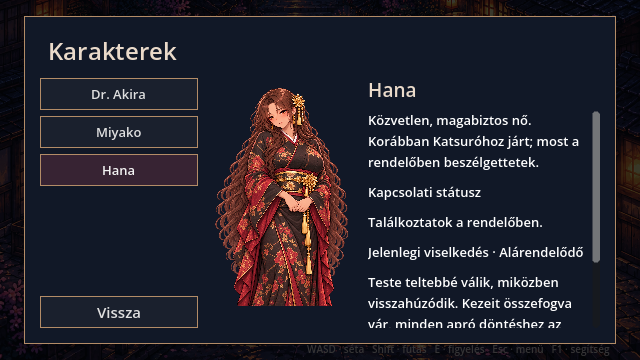
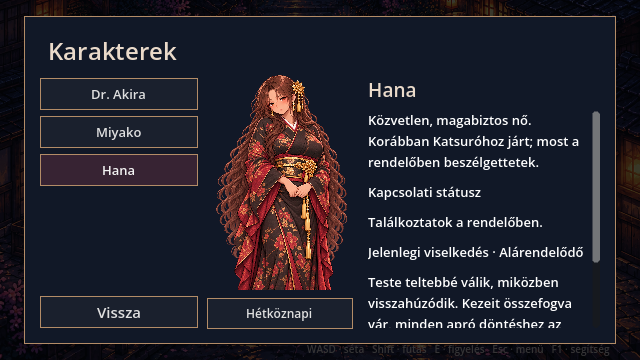
Add Hana casual outfit with journal wardrobe preview

Changed region(s): [[0.3438, 0.2139, 0.5625, 0.9167]]

diff --git a/docs/EVERYDAY_WARDROBE_REVIEW.md b/docs/EVERYDAY_WARDROBE_REVIEW.md
@@ -1,0 +1,17 @@
+# Everyday wardrobe — REVIEW
+
+2026-10-10 owner request: Hana may wear a top and denim shorts, contrasting with her traditional outfit; all women may receive individual everyday clothing over time.
+
+Hana asset: assets/opening/vn_portraits/hana_casual_deferential_v1_REVIEW.png. Reference: hana_transformed_deferential_v1_REVIEW.png. Built-in ImageGen; transparent_background=true. Output exec-a579e8ba-496e-4ba9-af2c-02ddb8459837.png. Fuller transformed build and hesitant pose retained, burgundy top and knee-length denim shorts. Kimono retained. This is a REVIEW wardrobe alternate, not a replacement baseline.
+
+Available through the character journal's Hétköznapi / Kimonó preview button when Hana's transformed state is known. Preview changes no story flags or VN costume. Story wardrobe transitions need an appropriate scene and matching expression assets. Other women's everyday outfits remain planned and should preserve each character's individual motifs. Clothing must not intrinsically imply rejection or submission; this first asset happens to depict Hana's currently developed transformed state.
+
+First prompt (rejected by generator output filtering):
+
+Outfit edit of the attached adult Hana character portrait for a visual novel. Replace the kimono with ordinary casual summer clothes: an opaque burgundy sleeveless tank top with a simple rounded neckline, full torso coverage, and blue denim mid-thigh shorts with natural seams, pockets and a small plain belt. Preserve her existing fuller adult body build, warm tan skin, face identity, reddish brown eyes, long wavy brown hair and gold flower hair ornament. Keep the hesitant gentle expression, chin slightly lowered and hands loosely clasped in front. Same standing pose, same head-to-lower-legs framing, same illustrated rendering style. Everyday clothing, natural fit. Transparent alpha background, one character, no text or frame.
+
+Successful more conservative outfit prompt:
+
+Create an everyday wardrobe reference for the adult woman in the attached illustration. She wears a loose burgundy sleeveless crew-neck cotton top, covering her torso completely, and relaxed blue denim Bermuda shorts reaching just above the knees. Ordinary practical summer streetwear, no glamour posing. Preserve her face, brown wavy hair, tan skin, gold flower ornament and existing body build without exaggeration. Standing calmly, hands loosely together, reserved friendly expression. Frame from head through knees as in reference. Same detailed illustrated visual novel style. Transparent background. No lettering or border.
+
+Validation: Godot import and character_pressure regression pass; wardrobe preview/return and unchanged story stage checked, menu screenshot inspected. Existing shutdown ObjectDB warning remains.

diff --git a/docs/DECISION_LOG.md b/docs/DECISION_LOG.md
@@ -115,3 +115,5 @@ Tulajdonosi kérés alapján karakterlapok/kapcsolati státusz, majd első éjsz
 2026-10-10 OWNER / REVIEW: Miyako ismételt elutasításánál testi horrorváltozat engedélyezett: világosodó haj, kék szem, teltebb mellkas és mániákus mosoly. Alapmegjelenése változatlan; alakos kivágás és ruha megtartva. CHARACTER_PRESSURE_REVIEW.md.
 
 2026-10-10 OWNER / REVIEW: Hana elutasítási fejlődése felülírja a korábbi követelőző irányt: teltebb test és egyre alárendelődő, jóváhagyást kereső viselkedés, az alap magabiztosság ellentéteként. Zártabb ruhás alternatív portré REVIEW; alapdesign változatlan. CHARACTER_PRESSURE_REVIEW.md.
+
+2026-10-10 OWNER / REVIEW: hétköznapi ruhatár idővel minden nőnek, egyéni karakterjegyekkel. Első Hana-alternatíva: bordó top és farmer rövidnadrág, karakterlapi előnézet. Kimonó megmarad, történeti ruhaváltás későbbi jelenethez kötendő. EVERYDAY_WARDROBE_REVIEW.md.
